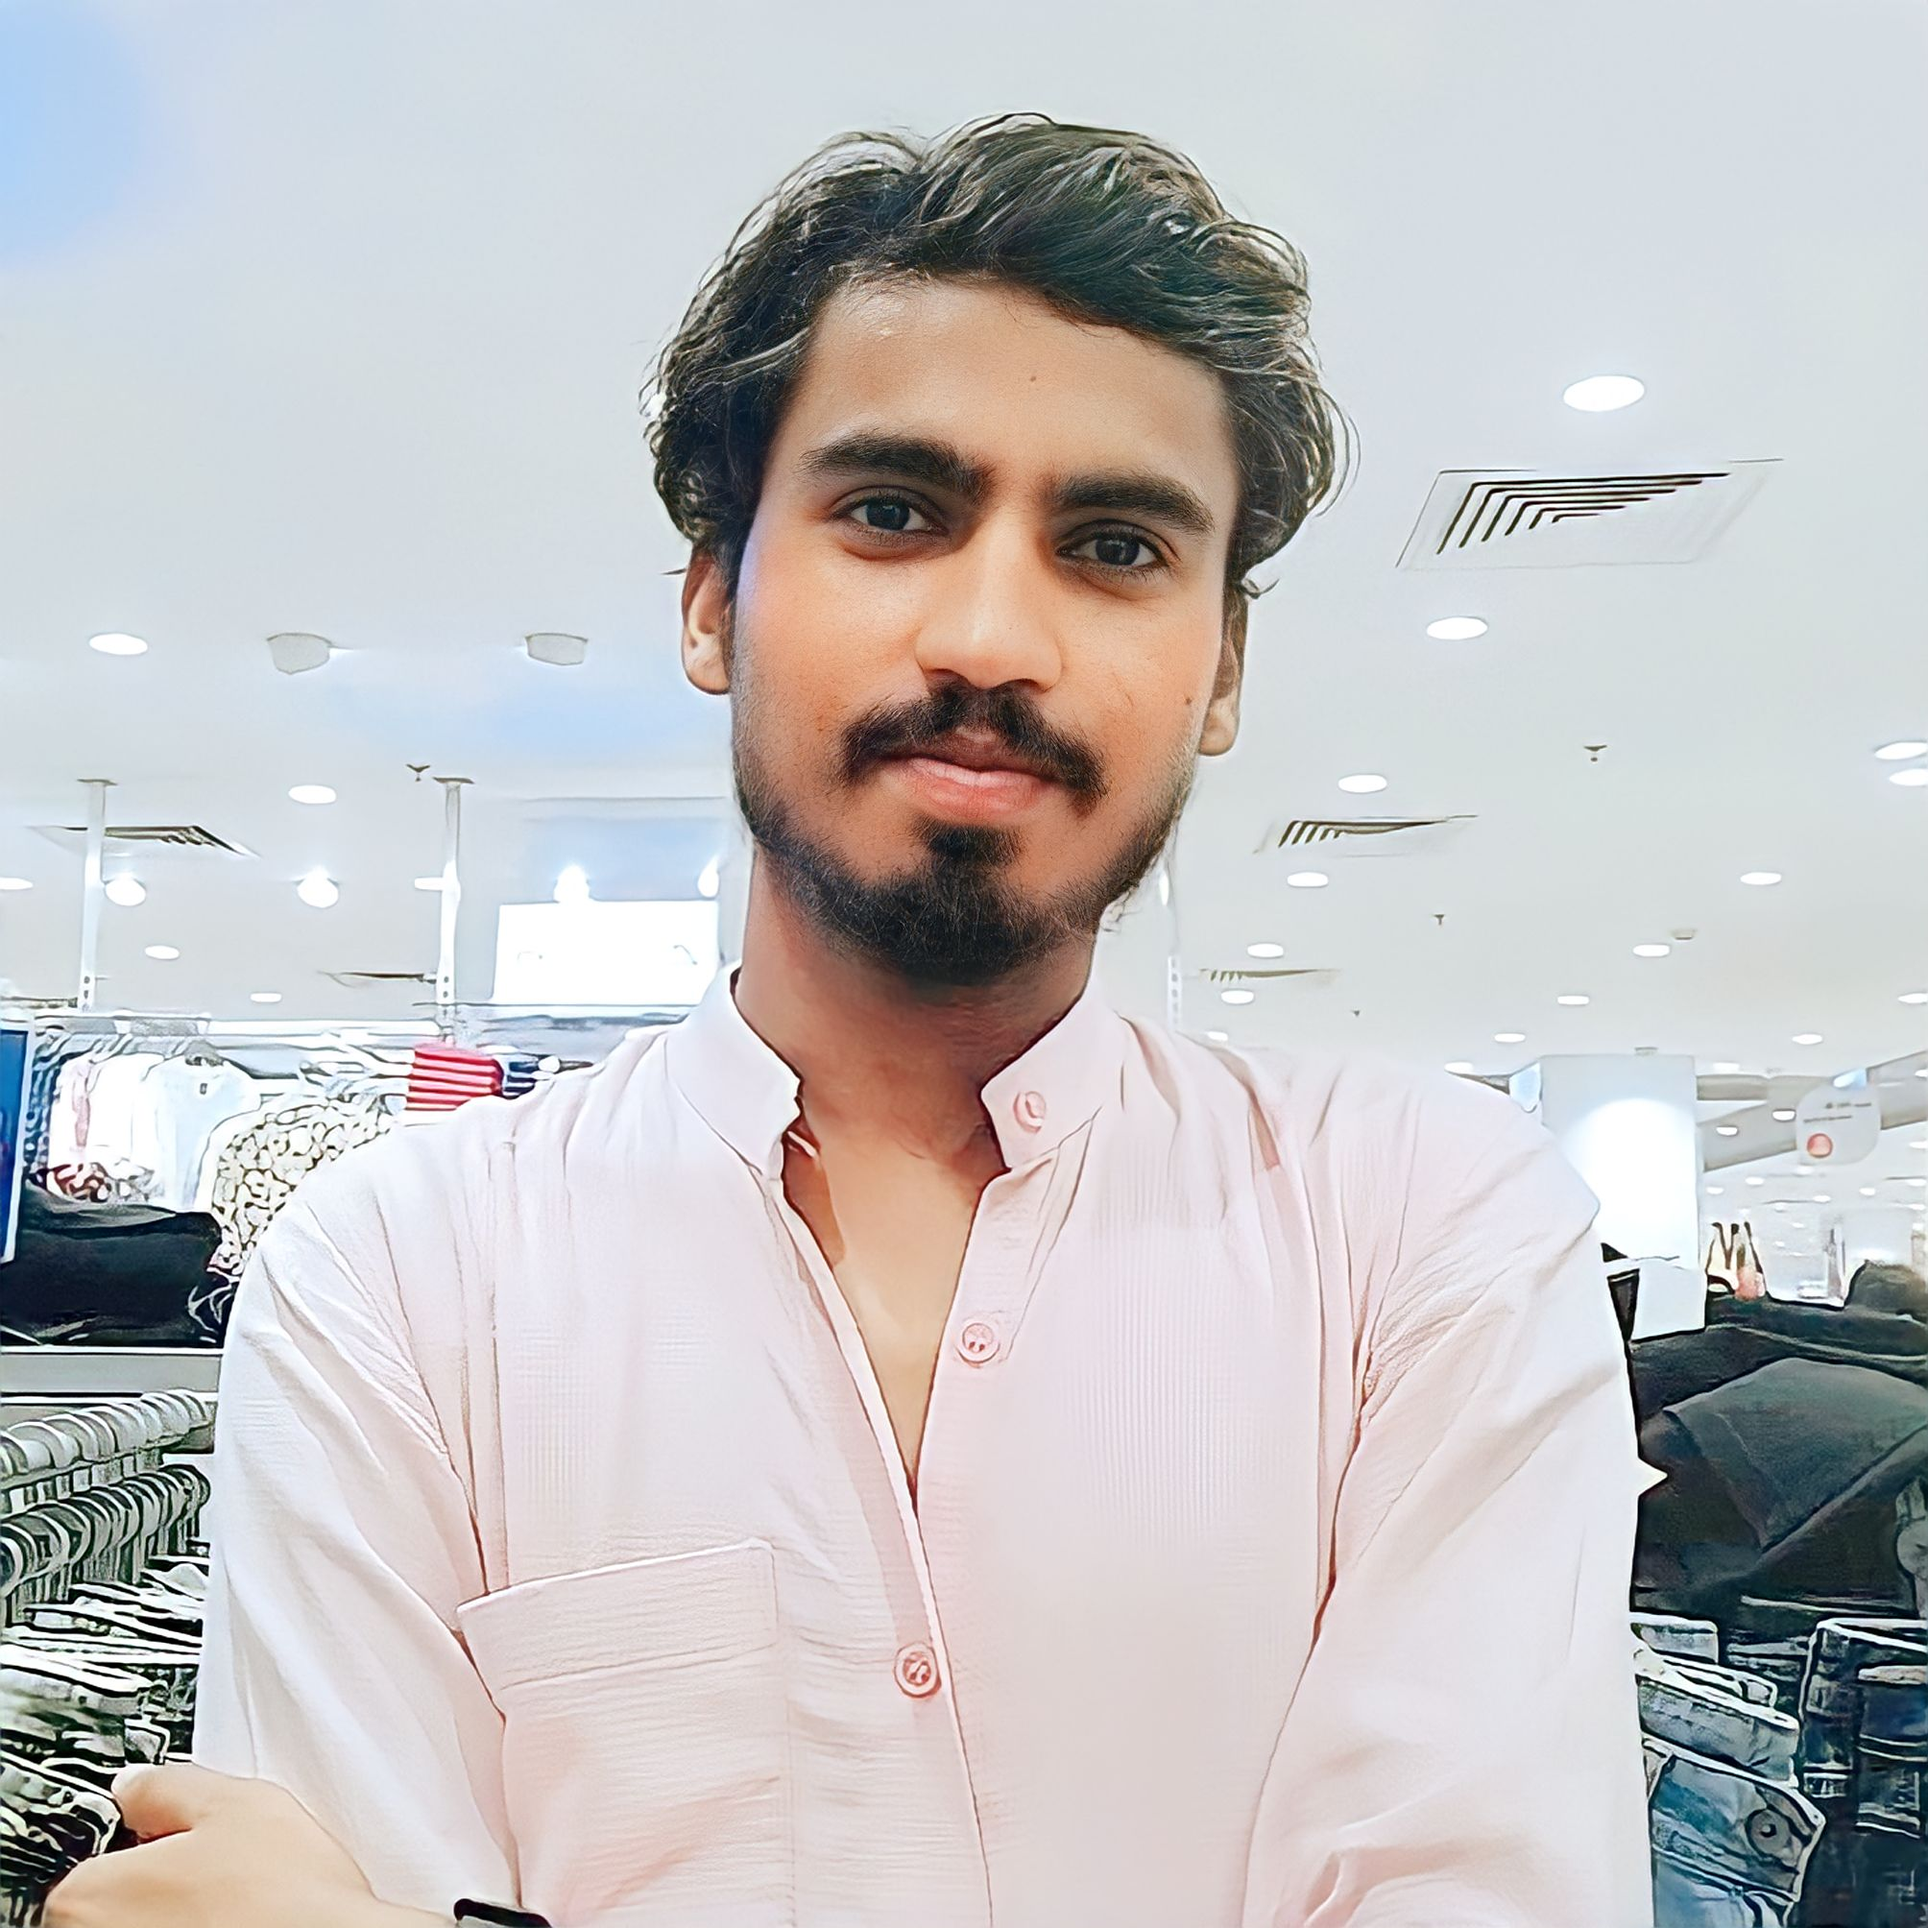
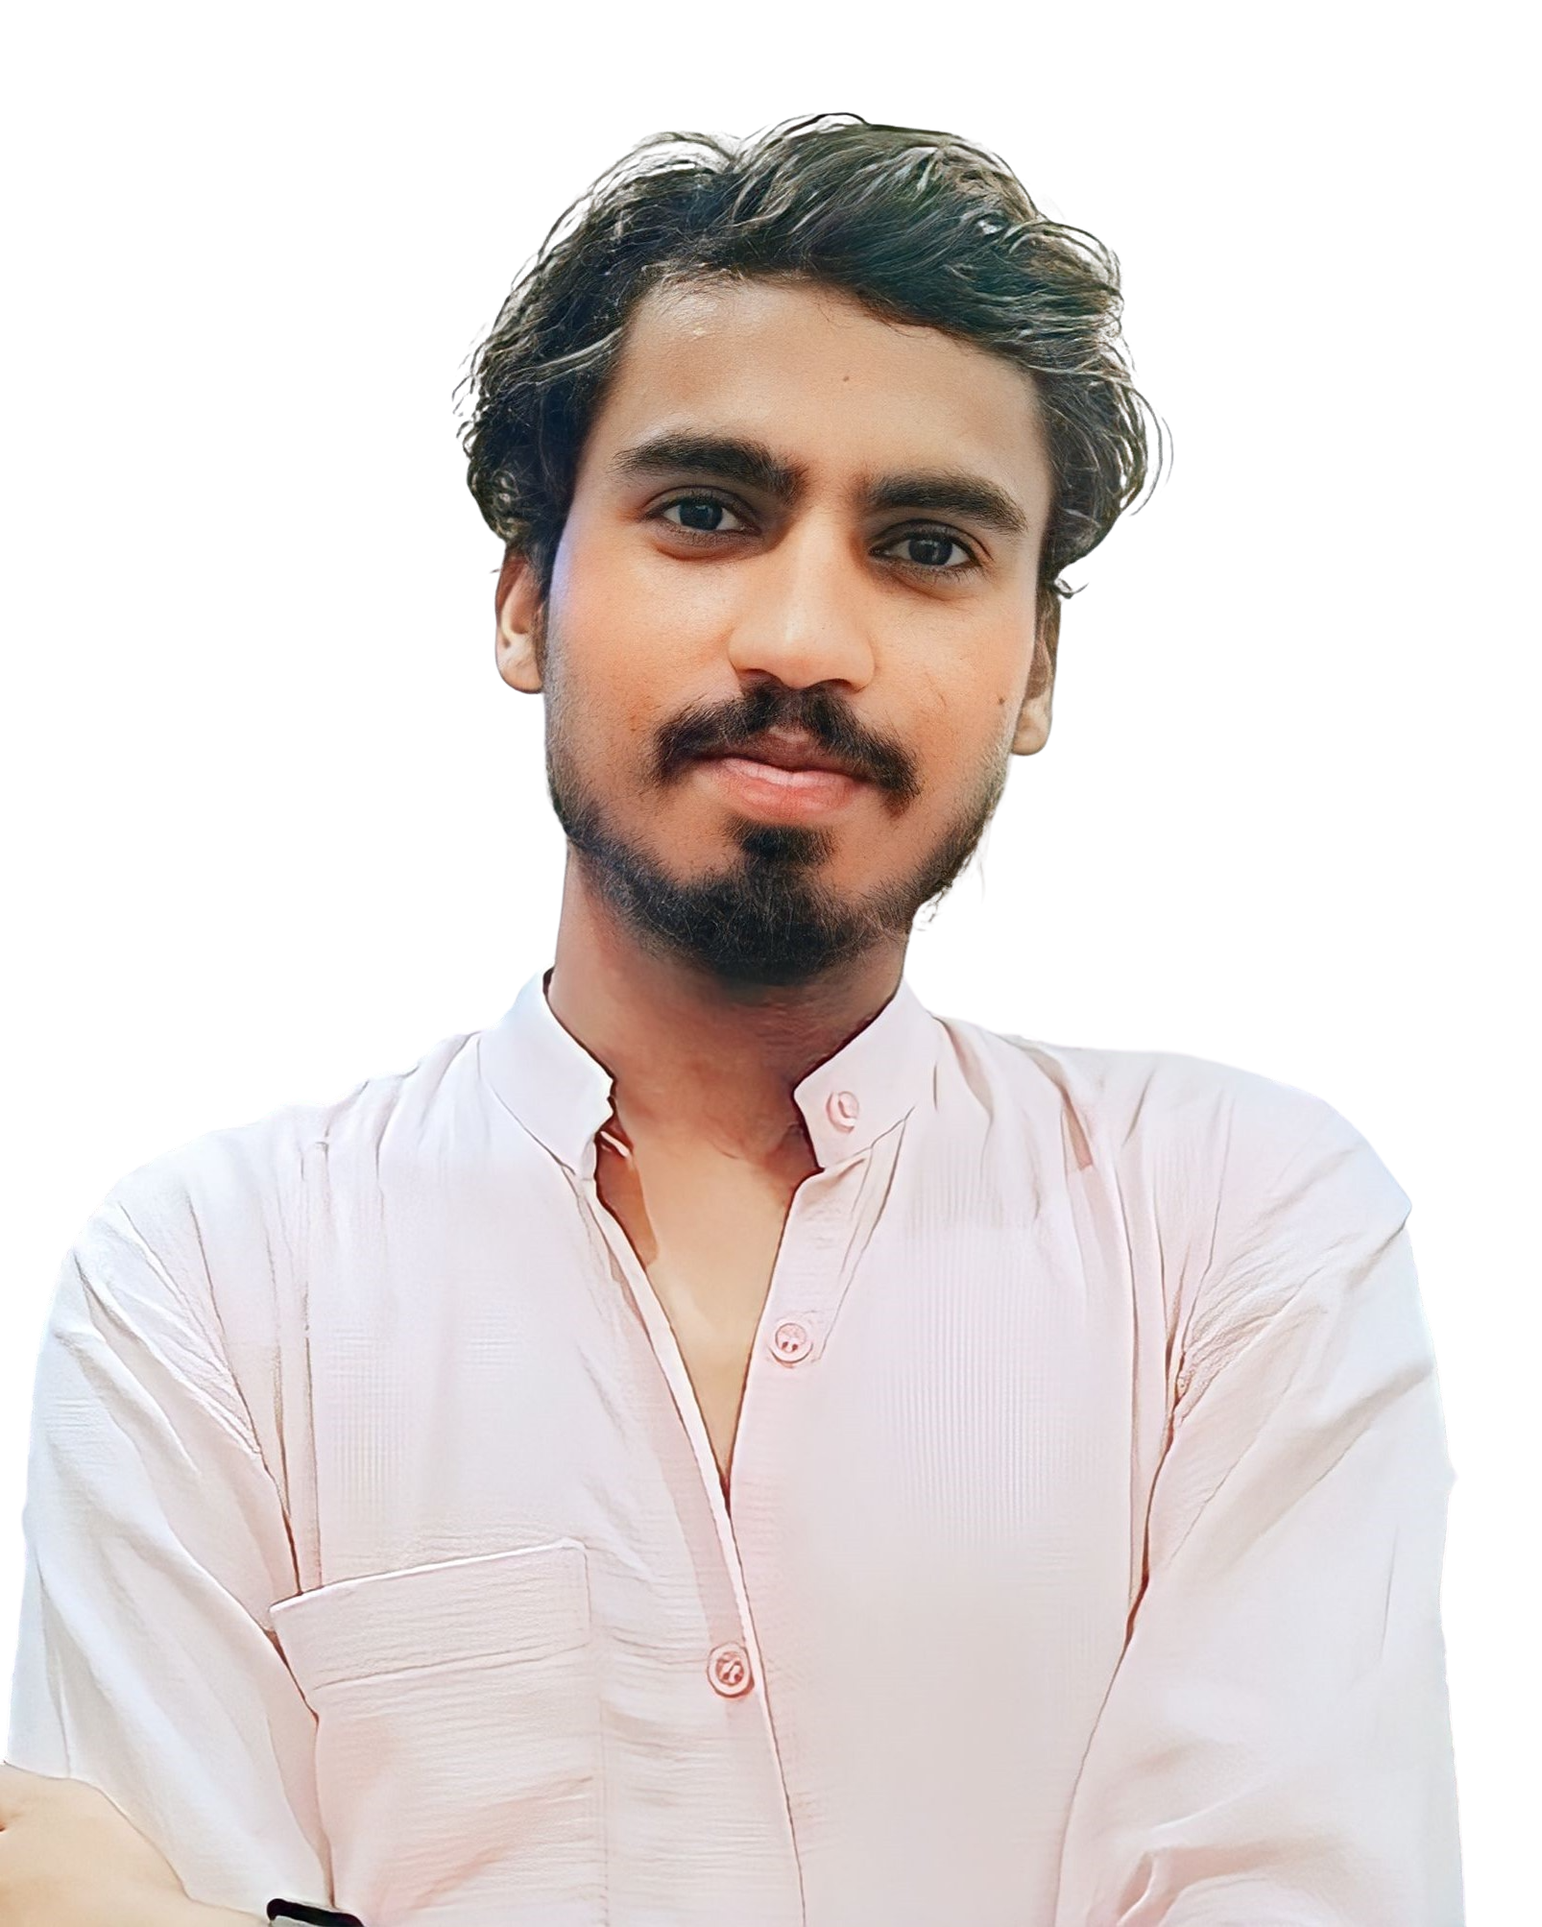
add new hero image

diff --git a/index.html b/index.html
@@ -3,7 +3,8 @@
   <head>
     <meta charset="UTF-8" />
     <meta name="viewport" content="width=device-width, initial-scale=1.0" />
-    <title>Akash (@codeguyakash)</title>
+    <title>Akash | @codeguyakash</title>
+    <link rel="icon" type="image/x-icon" href="icons/favicon.png">
     <link rel="stylesheet" href="style.css" />
     <link rel="preconnect" href="https://fonts.googleapis.com" />
     <link rel="preconnect" href="https://fonts.gstatic.com" crossorigin />
@@ -68,7 +69,6 @@
           </div>
         </div>
       </section>
-      <hr />
       <section id="about">
         <div class="child-sec flex">
           <div>
@@ -82,13 +82,12 @@
           </div>
           <div>
             <img
-              src="https://codeguyakash.github.io/server/image.png"
+              src="image/profile-pic.jpg"
               alt="about-pic"
             />
           </div>
         </div>
       </section>
-      <hr />
       <section id="projects">
         <div class="child-sec flex">
           <div>
@@ -152,7 +151,6 @@
           </div>
         </div>
       </section>
-      <hr />
       <section id="skills">
         <div>
           <h3 class="sub-heading skl">Skills</h3>
@@ -198,7 +196,6 @@
           </div>
         </div>
       </section>
-      <hr />
       <section id="contact">
         <div class="child-sec">
           <div class="c-m">
@@ -242,7 +239,6 @@
           </div>
         </div>
       </section>
-      <hr />
     </main>
     <footer>
       <div class="footer-logo">CODEGUYAKASH</div>

diff --git a/style.css b/style.css
@@ -61,7 +61,7 @@ li {
 }
 
 section {
-  padding: 5rem 2rem;
+  padding: 1rem 3rem;
 }
 .flex {
   display: flex;
@@ -88,7 +88,7 @@ p {
 }
 .child-sec {
   padding: 0.8rem;
-  margin: 2rem 15rem;
+  margin: 0rem 15rem;
 }
 .social {
   margin: 2.5rem 0;
@@ -125,8 +125,11 @@ h4 {
 #about .child-sec img {
   width: 288px;
   height: 360px;
-  border-radius: 0.9rem;
+  border-radius: 1.2rem;
   transition: 0.5s;
+  filter: drop-shadow(0px 0px 2px #5e5e5e9d );
+  padding: 10px;
+  
 }
 #about .child-sec img:hover {
   scale: 1.02;
